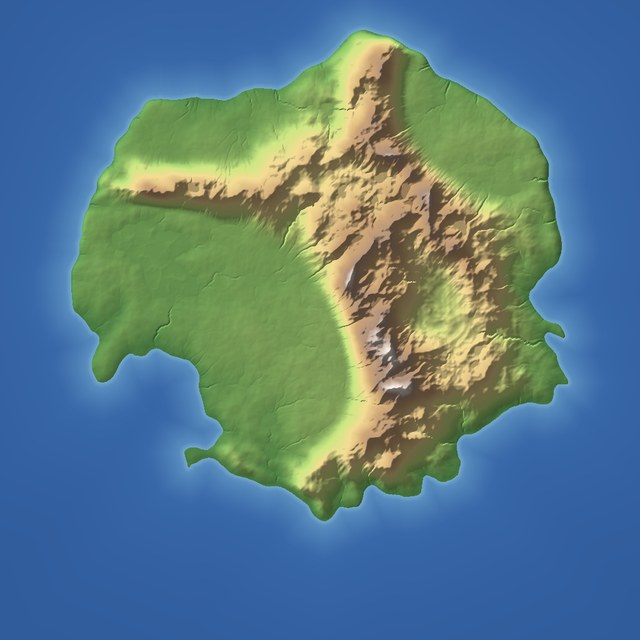
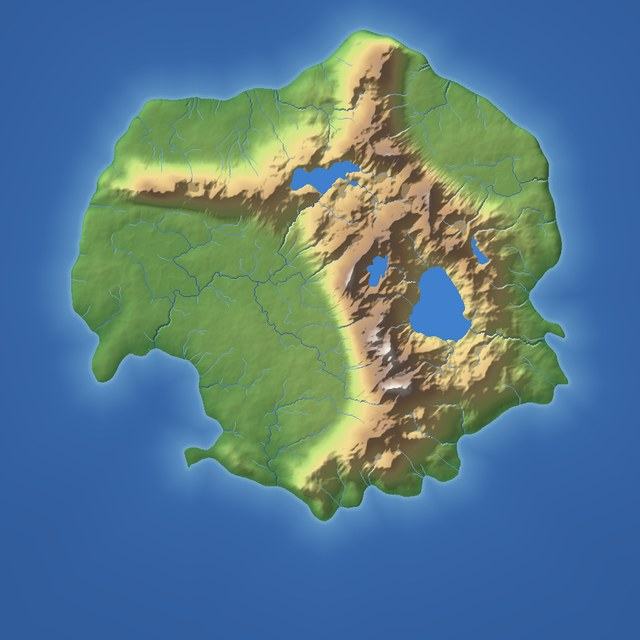
README, CLAUDE.md: hydrology merged; example with rivers and lakes

diff --git a/README.md b/README.md
@@ -49,10 +49,10 @@ The full design is in [`docs/design/design.md`](docs/design/design.md).
 | **Current phase** | P1 Geography. P0 Foundation and P2 Godot bring-up and viewer v0 are complete |
 | **Next phase** | P3 History core, after P1 |
 | **Current milestone** | Milestone 0, Geography generator: in progress (P1 and P2) |
-| **Work in flight** | P1: the elevation stage is merged (2026-11-16), so `generate` now writes a continent. It followed five rounds of design exploration and two world-critic reviews (`docs/reviews/`): irregular continents, long segmented ranges with 2,000 to 2,500 m peaks, valleys cut by erosion, lakes, and a guaranteed share of mountains in every world. High peaks may be too steep to walk; passes are left for the history simulation to open. Next: hydrology (spec approved), then climate, biomes, resources and regions (specs to write). |
+| **Work in flight** | P1: elevation and hydrology are merged (2026-11-16), so `generate` writes a continent with rivers and lakes. Elevation followed five rounds of design exploration and two world-critic reviews (`docs/reviews/`): irregular continents, long segmented ranges with 2,000 to 2,500 m peaks, valleys cut by erosion, and a guaranteed share of mountains in every world. High peaks may be too steep to walk; passes are left for the history simulation to open. Next: a small hydrology follow-up from the critic's review (clearer river drawing; merging parallel rivers on flats), then climate, biomes, resources and habitability, and regions, whose specs are approved. |
 | **`main`** | Builds and passes all tests on Linux (GCC, Clang, Clang with sanitizers) and Windows (MSVC), in debug and release |
 
-**What "P0 done" means.** The phase's exit check is that an empty world file is byte-identical across all three compilers and that `worldgen-cli hash` proves it in continuous integration. It does: eight test worlds, six empty and two holding test layers, are identical across all seven build configurations, and each matches its recorded golden hash. CI repeats the comparison on every push. With elevation merged the comparison covers twelve worlds, four of them full elevation maps at 512 and 1024.
+**What "P0 done" means.** The phase's exit check is that an empty world file is byte-identical across all three compilers and that `worldgen-cli hash` proves it in continuous integration. It does: eight test worlds, six empty and two holding test layers, are identical across all seven build configurations, and each matches its recorded golden hash. CI repeats the comparison on every push. With geography stages merged the comparison covers twelve worlds, four of them full maps with elevation and hydrology at 512 and 1024.
 
 **Since P0 was first completed**
 
@@ -61,8 +61,8 @@ The full design is in [`docs/design/design.md`](docs/design/design.md).
 
 **Known gaps and notes**
 
-- Geography so far is elevation only: no rivers, climate, biomes or regions yet.
-- Known elevation limitations are listed in section 11 of the elevation spec. The main ones: ranges have no natural passes; on a rare small map a range drops into the sea as a very steep smooth face (512, seed 41); filled basins among peaks can look smooth; a few worlds get ring-shaped ranges.
+- Geography so far is elevation and hydrology: no climate, biomes or regions yet.
+- Known elevation limitations are listed in section 11 of the elevation spec. The main ones: ranges have no natural passes; on a rare small map a range drops into the sea as a very steep smooth face (512, seed 41); filled basins among peaks can look smooth; a few worlds get ring-shaped ranges. Rivers on low flat ground run in angular steps, and the map drawing shows every river at the same faint width (`docs/reviews/p1-02-hydrology-critic.md`).
 - The only registered data kind is generator tuning (`game/data/worldgen/`); biomes, races and the rest come with their phases.
 - The noise primitive's output stays within about two thirds of its nominal range, which is normal for this kind of noise; the P1 elevation spec needs to account for it.
 - The `render` image-size limit is tested only on the "too large" side.
@@ -78,7 +78,7 @@ The first block of work is the world generator prototype: seven phases, P0 to P6
 | Phase | Delivers | Depends on | Status |
 | --- | --- | --- | --- |
 | **P0 Foundation** | Repository layout, CMake presets, vendored dependencies, CI on three compilers, the deterministic core, the reproducible SQLite layer, the TOML loader, `worldgen-cli` | — | **Done** 2026-11-15, reviewed |
-| **P1 Geography** | Elevation, erosion, hydrology, climate, biomes, resources and regions, each writing its layer; image export per layer | P0 | **In progress** since 2026-11-15: first three specs approved, shared foundation merged; elevation merged 2026-11-16; hydrology next |
+| **P1 Geography** | Elevation, erosion, hydrology, climate, biomes, resources and regions, each writing its layer; image export per layer | P0 | **In progress** since 2026-11-15: first three specs approved, shared foundation, elevation and hydrology merged (2026-11-16); specs for the remaining four stages approved; climate next |
 | **P2 Godot bring-up and viewer v0** | Godot version pinned, C++ extension building on Linux and Windows, `world.db` reader bound into Godot, 2D map with switchable layers | P0; parallel with P1 | **Done** 2026-11-15, awaiting Paul's hands-on review. Godot 4.7.2 and godot-cpp 10.0.0 pinned; the extension builds and its headless check passes on Linux and Windows |
 | **P3 History core** | Race and culture definitions, ages and the awakening schedule, active phases and quiet intervals, civilizations, settlements, wars, ruin, the event log, a text history report | P1 | Not started |
 | **P4 Viewer v1** | Timeline scrubber, territory by year, settlement and site markers, browser for civilizations and events | P2, P3; parallel with P5 | Not started |
@@ -122,7 +122,7 @@ Around them: about 300 automated test cases, 2,201 golden vectors for the core p
 
 ## What works today
 
-`worldgen-cli` writes world files and inspects them. A generated world currently holds one geography layer, elevation, on a 512, 1024 or 2048 cell map at 16 m per cell.
+`worldgen-cli` writes world files and inspects them. A generated world currently holds eight geography layers (elevation, then water, water depth, flow direction, flow accumulation, rivers, lakes and distance to the coast from hydrology) on a 512, 1024 or 2048 cell map at 16 m per cell.
 
 ```
 $ worldgen-cli generate --seed-phrase "The Unmapped"
@@ -131,19 +131,26 @@ $ worldgen-cli generate --seed-phrase "The Unmapped"
 $ worldgen-cli report --db ~/.cache/the-unmapped/out/world-15629206466951235176.db
 # worldgen report v2
 [meta]
-content_hash = 93b32f51e51e2c28365c5a7f0de437eaf20a6124a6f5c53b1b468381268eb7ad
+content_hash = 3fa05f6f25fd005adf279ab025f3962735aacb80ad994e95a4013b3302085aea
 format = the-unmapped-world
-generator_version = 0.3.0
+generator_version = 0.4.0
 param.map_size = 1024
 schema_version = 1
 seed = 15629206466951235176
 seed_phrase = the unmapped
-stages = elevation
+stages = elevation,hydrology
 [tables]
-layer = 1
+layer = 8
 meta = 8
 [layers]
 elevation i16 1024x1024 codec=1 bytes=1175914 min=-2306 max=19802
+water u8 1024x1024 codec=1 bytes=34981 min=0 max=3
+water_depth u16 1024x1024 codec=1 bytes=640148 min=0 max=2306
+flow_dir u8 1024x1024 codec=1 bytes=238106 min=0 max=8
+flow_accum u32 1024x1024 codec=1 bytes=469472 min=0 max=120612
+river u8 1024x1024 codec=1 bytes=27523 min=0 max=8
+lake u32 1024x1024 codec=1 bytes=2234 min=0 max=4
+coast_dist i16 1024x1024 codec=1 bytes=1022256 min=-6579 max=5008
 [geography]
 cells = 1048576
 land_cells = 419430
@@ -163,19 +170,30 @@ slope_over = 35:0.3160 45:0.2190
 slope_p50_above_500m = 1.1419
 lowland_flat_share = 0.0161
 edge_parallel_run_m = 2288
+lakes = 4
+lake_cells = 12434
+lake_share_of_land = 0.0296
+largest_lake_cells = 7815
+river_cells = 8546
+river_share_of_land = 0.0204
+river_sources = 203
+river_mouths = 51
+major_rivers = 15
+longest_river_m = 11588
+largest_basin_share = 0.2876
 
 $ worldgen-cli hash --db ~/.cache/the-unmapped/out/world-15629206466951235176.db
[2 lines of base64/hex data omitted]
 
 $ worldgen-cli render --db ~/.cache/the-unmapped/out/world-15629206466951235176.db --composite map
 /home/you/.cache/the-unmapped/out/world-15629206466951235176.map.png
 ```
 
-That hash is the same on every supported compiler and platform, and with any number of threads. A seed phrase is scrubbed before use (lower-cased, with everything other than a to z and 0 to 9 treated as a space), so `"the-unmapped!"` and `"THE  UNMAPPED"` give this same world. The rendered map, about 16 km across with peaks near 2,000 m:
+That hash is the same on every supported compiler and platform, and with any number of threads. A seed phrase is scrubbed before use (lower-cased, with everything other than a to z and 0 to 9 treated as a space), so `"the-unmapped!"` and `"THE  UNMAPPED"` give this same world. The rendered map, about 16 km across with peaks near 2,000 m, four lakes and about 200 river sources (rivers are one 16 m cell wide, so they are faint at this size):
 
 ![Shaded relief map of the world generated from the phrase "The Unmapped"](docs/images/p1-elevation-map.jpg)
 
-A 1024 world takes about 7 seconds on six cores. `--until none` writes an empty world, and `--test-pattern` writes three small test layers that exercise hashing, noise and the layer codec.
+A 1024 world takes about 7 seconds on six cores. `--until elevation` stops after elevation, `--until none` writes an empty world, and `--test-pattern` writes three small test layers that exercise hashing, noise and the layer codec.
 
 | Command | Does |
 | --- | --- |

diff --git a/CLAUDE.md b/CLAUDE.md
@@ -6,7 +6,7 @@ A single-player, first-person, open-world RPG whose world and history are genera
 
 - **Design doc:** `docs/design/design.md`. It is the specification for the whole project. Read the sections relevant to your task before starting.
 - **Current work:** the world generator prototype, section 13 of the design doc (phases P0 to P6).
-- **Current phase:** P1 Geography. P0 Foundation and P2 (Godot bring-up and viewer v0) are done. The elevation stage (spec P1-01) is merged; hydrology (spec P1-02) is next, then climate, biomes, resources and regions.
+- **Current phase:** P1 Geography. P0 Foundation and P2 (Godot bring-up and viewer v0) are done. The elevation and hydrology stages (specs P1-01, P1-02) are merged; climate, biomes, resources and habitability, and regions (specs P1-03 to P1-06, approved) are next.
 - **Next phase:** P3 History core, after Paul's review of P1.
 
 ## The design doc is read-only
